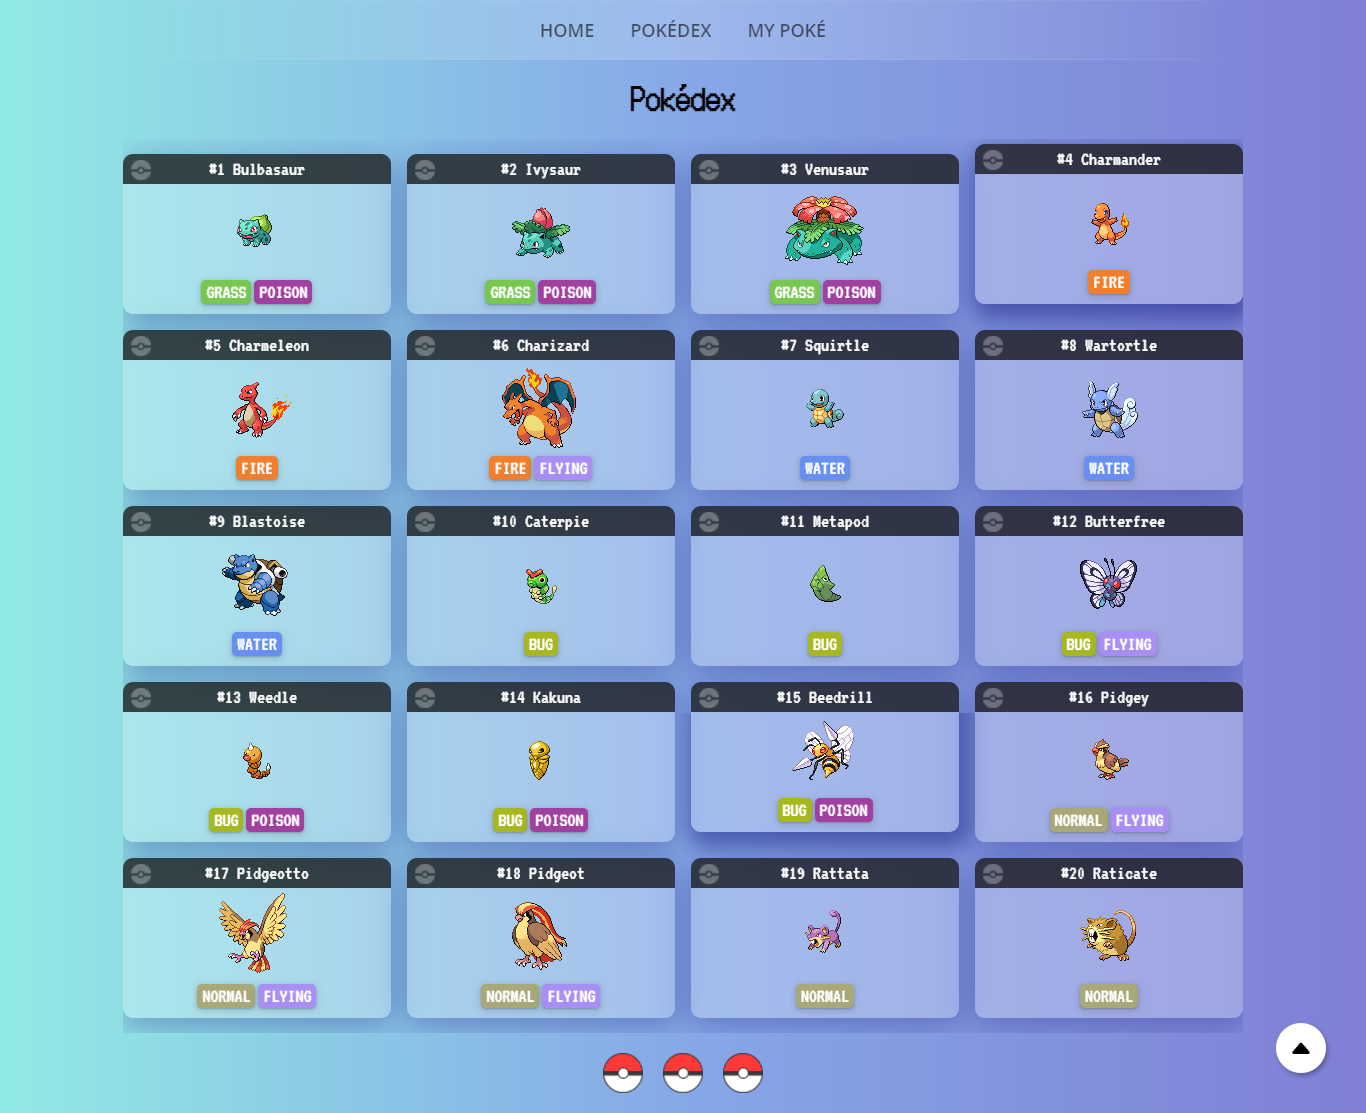
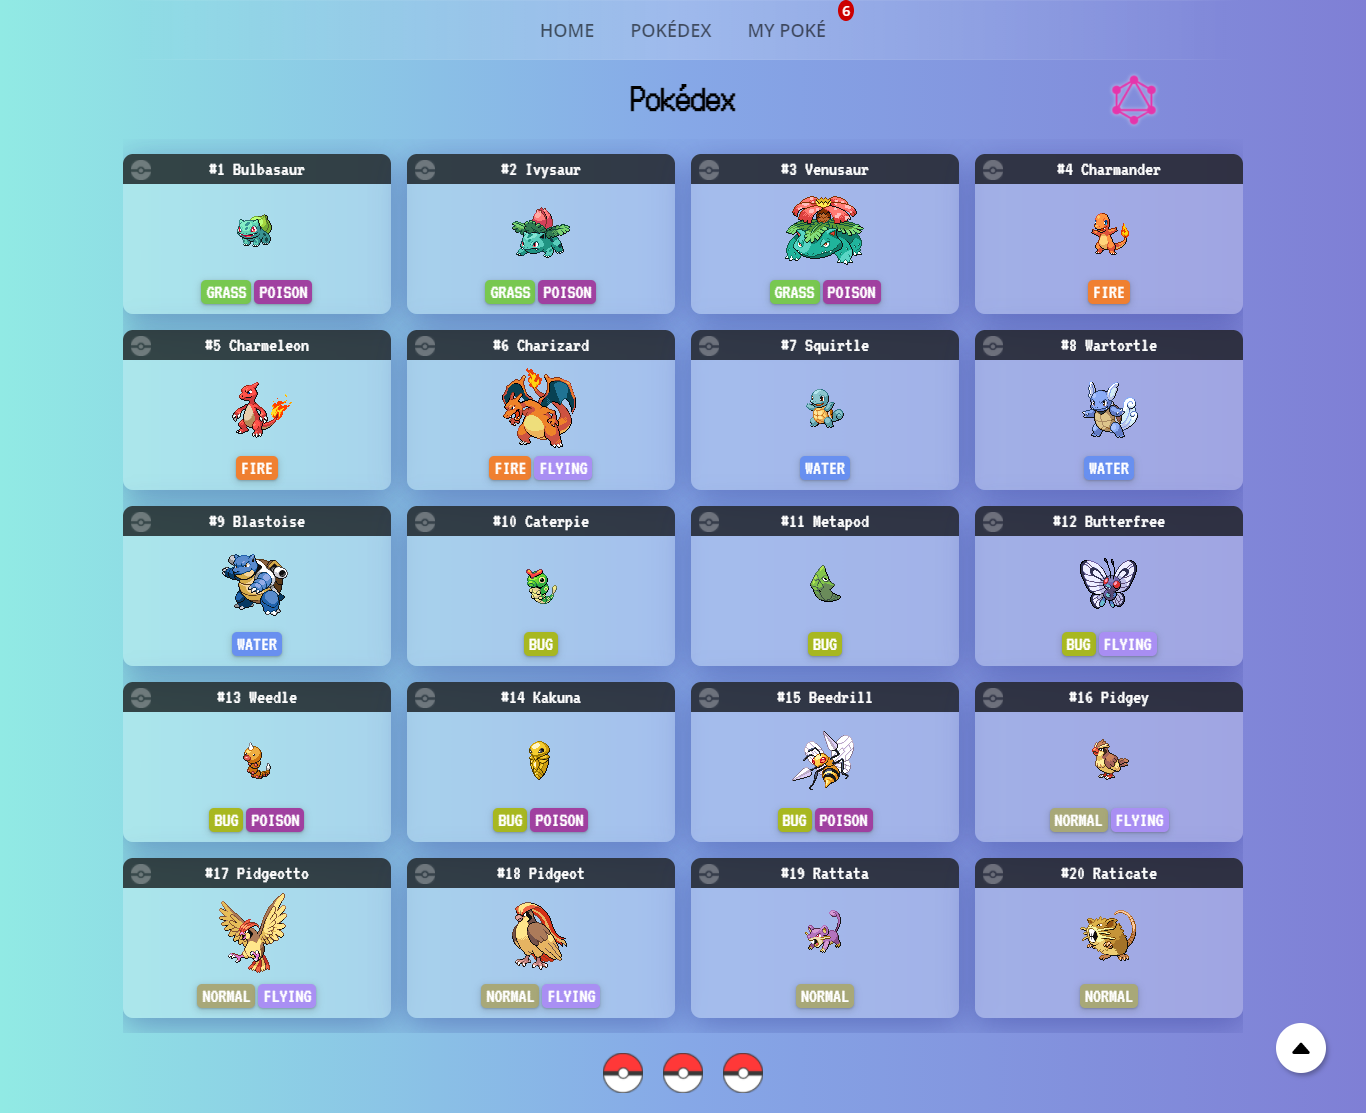
update readme

Changed region(s): [[0.7072, 0.0611, 0.9224, 0.3055], [0.4919, 0.6415, 0.7072, 0.7637], [0.6149, 0.0, 0.6457, 0.0305]]

diff --git a/README.md b/README.md
@@ -44,9 +44,9 @@
 This app consist of two main feature:
 
 1. Explore the Pokemon(s) provided by PokeAPI
-2. and make them for your own by catching them
+2. Collect them as your companion by catching them!
 
-This project more like a playground for myself to apply my javascript and react skills
+This project more like a javascript front-end web application playground with pokemon data provided by PokeAPI
 
 ### Built With
 
@@ -55,6 +55,8 @@ Mainly use React for Single Page Application advantages (migrate to NextJS for f
 - [React](https://reactjs.org/)
 - [Axios](https://github.com/axios/axios)
 - [Emotion.JS](https://emotion.sh/)
+- [GraphQL](https://graphql.org/)
+- [Apollo Client](https://www.apollographql.com)
 
 ### Installation
 
@@ -86,7 +88,6 @@ Mainly use React for Single Page Application advantages (migrate to NextJS for f
 I am already decided the planned updates consist of :
 - Add catch animation
 - Add search feature
-- GraphQl implementation option
 - NextJs Migration
 - Testing using jest
 - TBA
